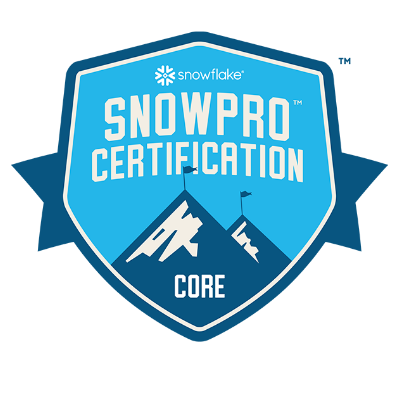
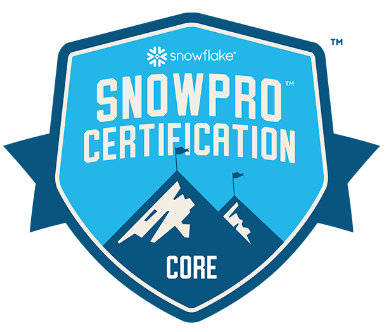
Fixed snowpro link and image size

diff --git a/README.md b/README.md
@@ -23,10 +23,10 @@ I'm a Data Engineer with a passion for cloud computing, data warehousing, and da
             height="125"
             style="margin-right: 20px;">
     </a>
-    <a target="_blank" href="https://achieve.snowflake.com/ff5753f1-ea08-421e-9cb8-383495dc6671#gs.0yo4g5">
+    <a target="_blank" href="https://achieve.snowflake.com/7a2bcb51-7023-4c96-ae18-1dcdabc23888#gs.1o929v">
         <img src="snowflake-snowpro-core.png"
              alt="Hands-On Essentials: Data Engineering Workshop"
-             height="150">
+             height="130">
     </a>
     <a target="_blank" href="https://verified.sertifier.com/es/verify/99021844314073/?ref=email">
         <img src="the-power-mba-certificate.png"
